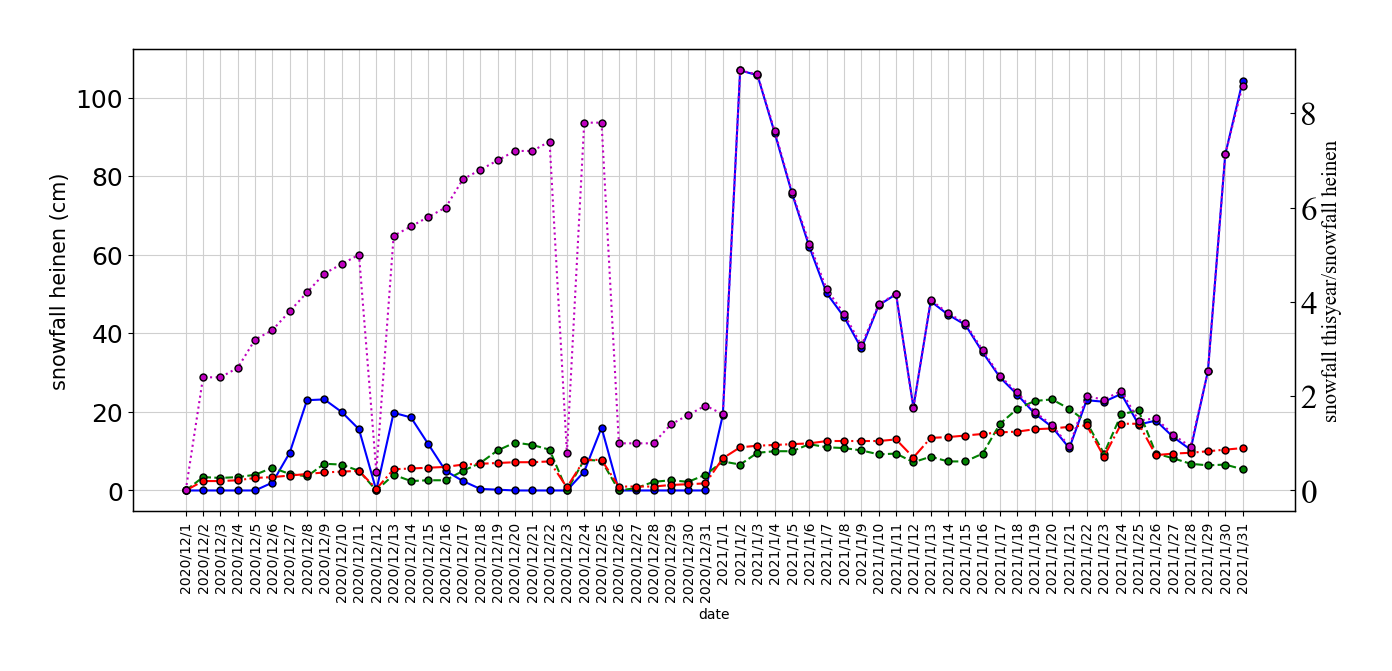
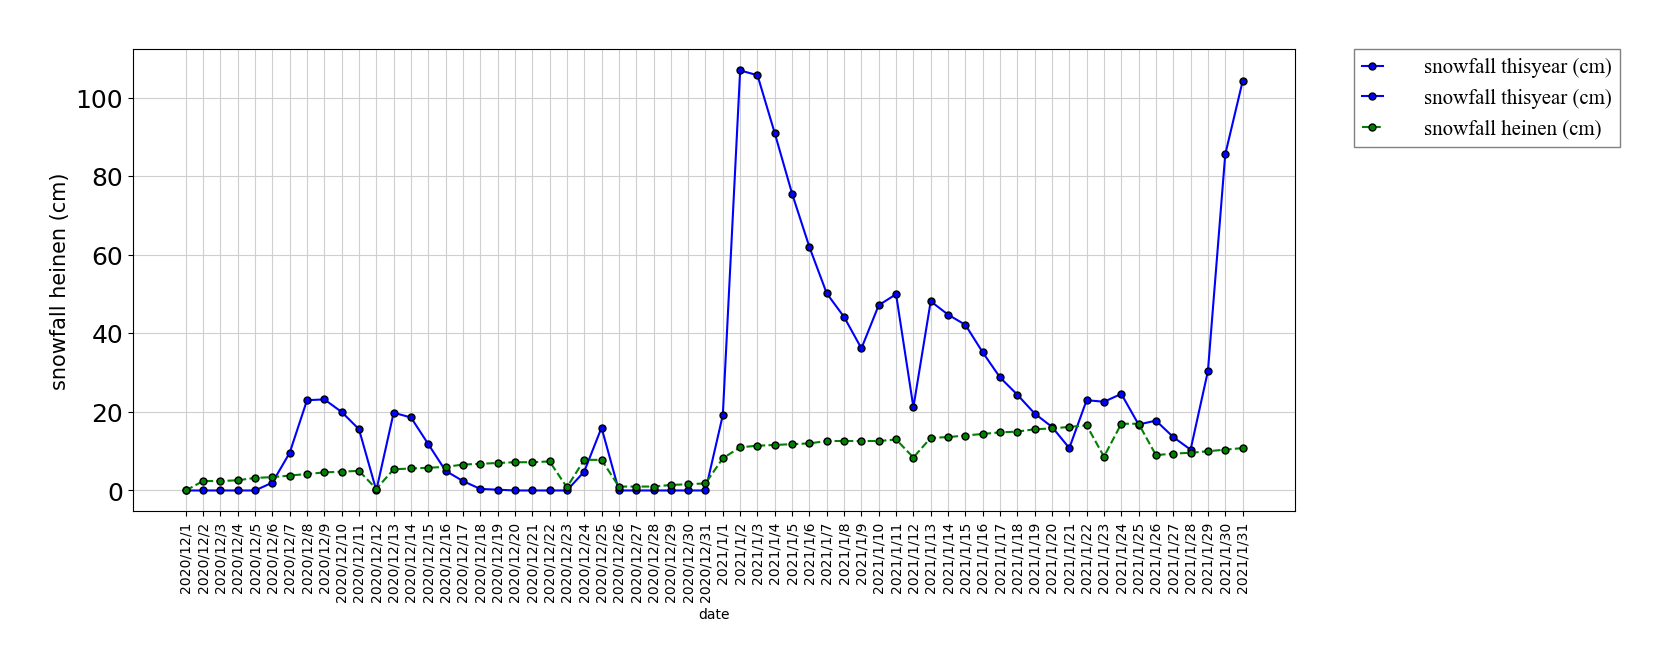
tmp

diff --git a/snow_analyze.py b/snow_analyze.py
@@ -146,10 +146,11 @@ def main():
     x = city_data["氷見"].snow_this_year.index
 
     plt_set.plot(x, ave_city_data_all[0], "date", "snowfall thisyear (cm)", xisDate=True)
-    plt_set.plot(x, ave_city_data_all[1], "date", "snowfall 10year ave (cm)", xisDate=True)
+    #plt_set.plot(x, ave_city_data_all[1], "date", "snowfall 10year ave (cm)", xisDate=True)
     plt_set.plot(x, ave_city_data_all[2], "date", "snowfall heinen (cm)", xisDate=True)
-    plt_set.plot(x, ave_city_data_all[3], "date", "snowfall thisyear/snowfall heinen", xisDate=True, newYaxis=True)
+    #plt_set.plot(x, ave_city_data_all[3], "date", "snowfall thisyear/snowfall heinen", xisDate=True, newYaxis=True)
     plt_set.save_fig("snow")
+    print(len(ave_city_data_all[0]))
 
 if __name__ == "__main__":
     main()

diff --git a/mymatlib.py b/mymatlib.py
@@ -92,6 +92,6 @@ class PltSet:
         self.cnt += 1
 
     def save_fig(self, fig_name):
-        #self.ax.legend(self.legend_bar, self.legend_label,
-        #               loc='upper left', borderaxespad=0, bbox_to_anchor=(1.05, 1))
+        self.ax.legend(self.legend_bar, self.legend_label,
+                       loc='upper left', borderaxespad=0, bbox_to_anchor=(1.05, 1))
         self.fig.savefig(fig_name, bbox_inches="tight", pad_inches=0.5)
